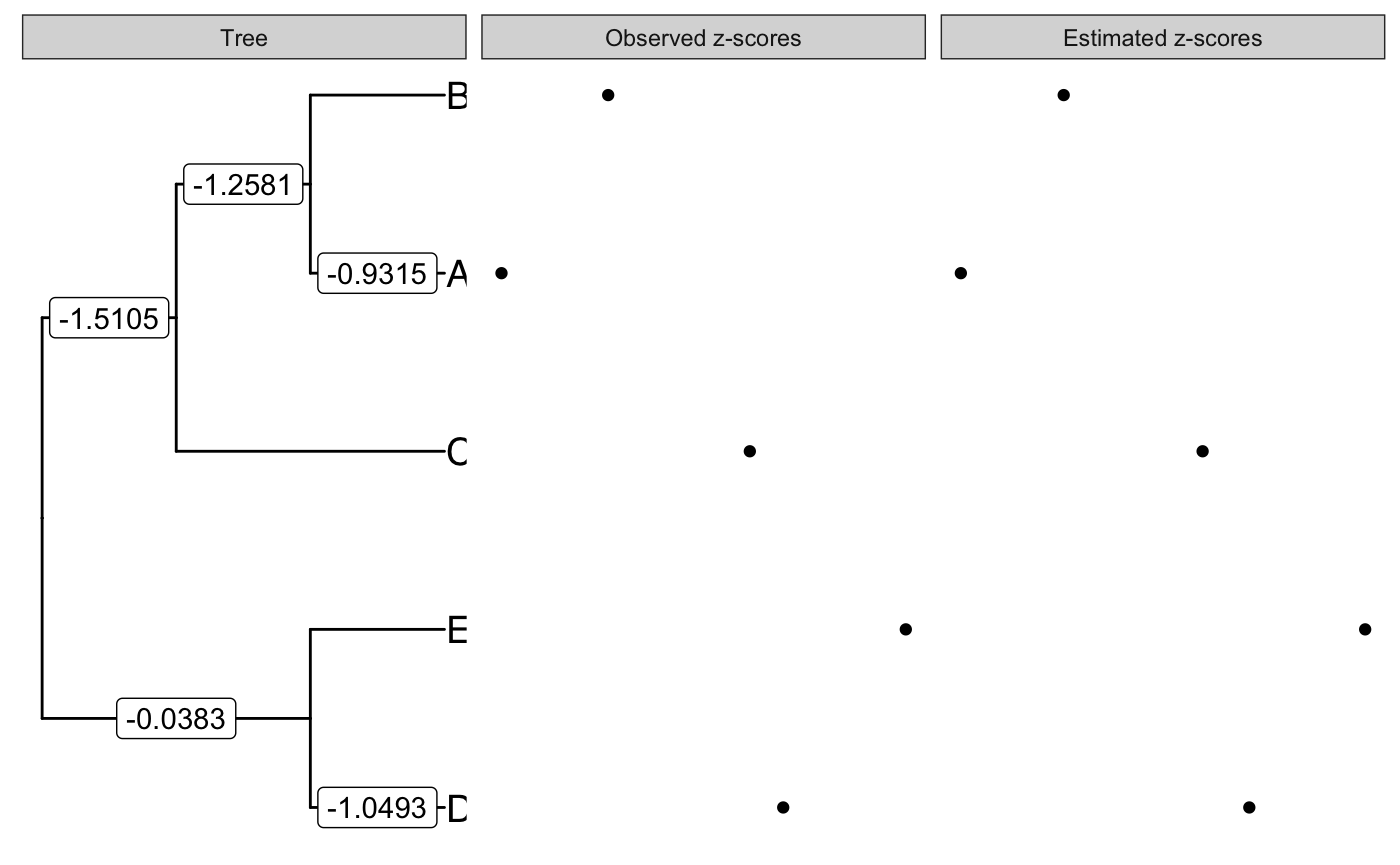
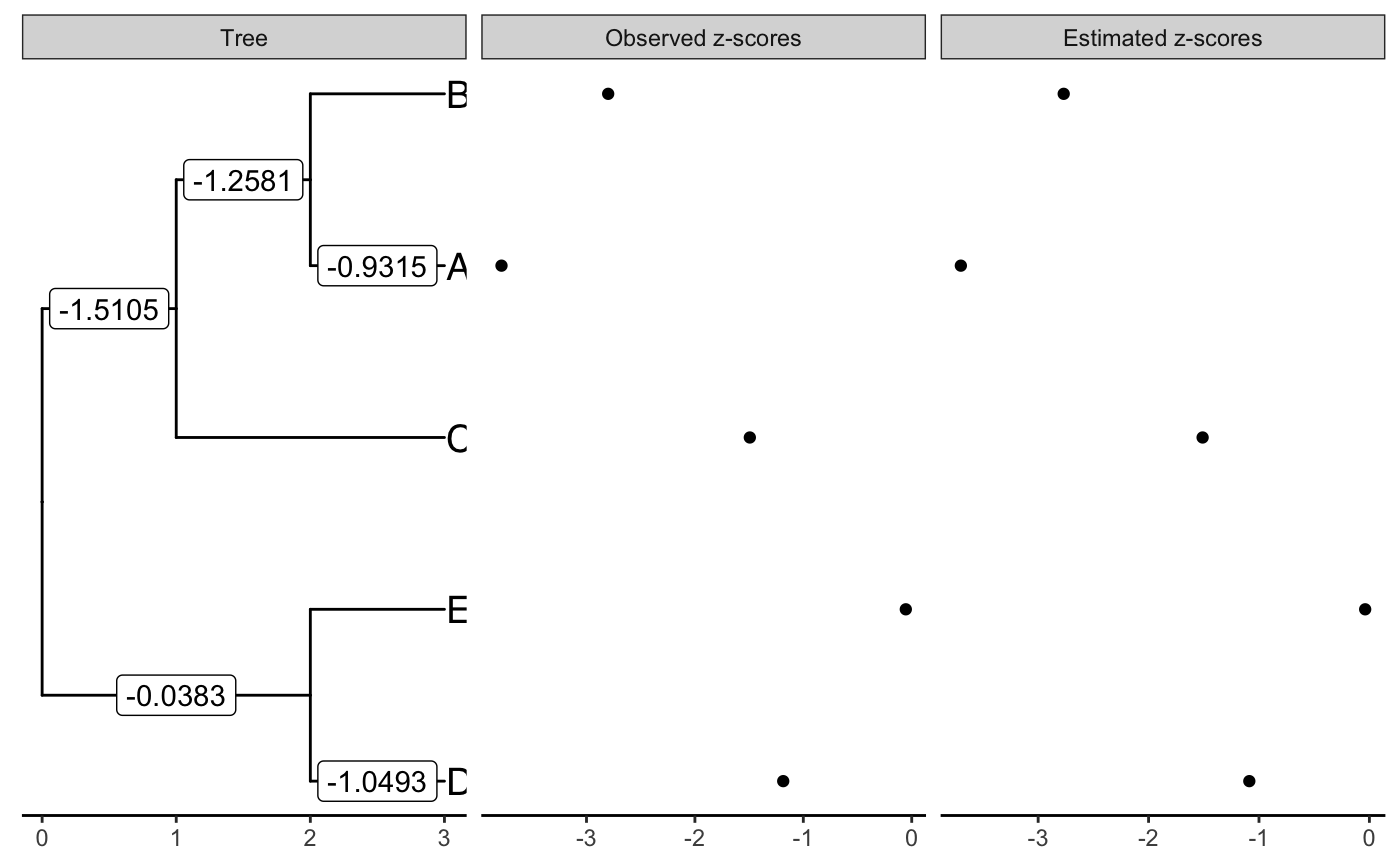
plot option for simulations

diff --git a/inst/docs/reference/simu_zscores.html b/inst/docs/reference/simu_zscores.html
@@ -126,7 +126,8 @@
     <p>Simulates z-scores</p>
     </div>
 
-    <pre class="usage"><span class='fu'>simu_zscores</span>(<span class='no'>tree</span>, <span class='no'>alpha</span>, <span class='kw'>shifts</span> <span class='kw'>=</span> <span class='kw'>NULL</span>, <span class='kw'>Nshifts</span> <span class='kw'>=</span> <span class='kw'>NULL</span>)</pre>
+    <pre class="usage"><span class='fu'>simu_zscores</span>(<span class='no'>tree</span>, <span class='no'>alpha</span>, <span class='kw'>shifts</span> <span class='kw'>=</span> <span class='kw'>NULL</span>, <span class='kw'>Nshifts</span> <span class='kw'>=</span> <span class='kw'>NULL</span>,
+  <span class='kw'>graph</span> <span class='kw'>=</span> <span class='fl'>FALSE</span>, <span class='no'>...</span>)</pre>
 
     <h2 class="hasAnchor" id="arguments"><a class="anchor" href="#arguments"></a>Arguments</h2>
     <table class="ref-arguments">
@@ -147,6 +148,14 @@
       <th>Nshifts</th>
       <td><p>number of shifts. Must be specified if <code>shifts</code> is not.</p></td>
     </tr>
+    <tr>
+      <th>graph</th>
+      <td><p>show the tree, shifts and z-scores be plotted?</p></td>
+    </tr>
+    <tr>
+      <th>...</th>
+      <td><p>additional parameters to pass to <code><a href='plot_shifts.html'>plot_shifts()</a></code>.</p></td>
+    </tr>
     </table>
 
     <h2 class="hasAnchor" id="value"><a class="anchor" href="#value"></a>Value</h2>
@@ -157,17 +166,20 @@
     <p>Shifts are sampled from "statistically significant values of z-scores"</p>
 
     <h2 class="hasAnchor" id="examples"><a class="anchor" href="#examples"></a>Examples</h2>
-    <pre class="examples"><div class='input'><span class='no'>tree</span> <span class='kw'>&lt;-</span> <span class='kw pkg'>ape</span><span class='kw ns'>::</span><span class='fu'><a href='https://rdrr.io/pkg/ape/man/rtree.html'>rcoal</a></span>(<span class='fl'>7</span>)
-<span class='no'>shift</span> <span class='kw'>=</span> <span class='fu'><a href='https://rdrr.io/r/base/c.html'>c</a></span>(<span class='fl'>0</span>, <span class='fl'>0</span>, -<span class='fl'>3</span>, <span class='fl'>0</span>, <span class='fl'>0</span>, <span class='fl'>0</span>, <span class='fl'>0</span>, <span class='fl'>0</span>, <span class='fl'>0</span>, -<span class='fl'>2</span>, <span class='fl'>0</span>, <span class='fl'>0</span>)
-<span class='fu'>simu_zscores</span>(<span class='no'>tree</span>, <span class='kw'>alpha</span> <span class='kw'>=</span> <span class='fl'>0.2</span>, <span class='kw'>shift</span> <span class='kw'>=</span> <span class='fu'><a href='https://rdrr.io/r/base/c.html'>c</a></span>(<span class='fl'>0</span>, <span class='fl'>0</span>, -<span class='fl'>3</span>, <span class='fl'>0</span>, <span class='fl'>0</span>, <span class='fl'>0</span>, <span class='fl'>0</span>, <span class='fl'>0</span>, <span class='fl'>0</span>, -<span class='fl'>2</span>, <span class='fl'>0</span>, <span class='fl'>0</span>))</div><div class='output co'>#&gt;          [,1]
-#&gt; t6  -2.823511
-#&gt; t1   0.218014
-#&gt; t2   3.539511
-#&gt; t3 -15.095993
-#&gt; t5  -0.133997
-#&gt; t7  -5.335610
-#&gt; t4   1.406627</div><div class='input'>
-</div></pre>
+    <pre class="examples"><div class='input'><span class='fu'><a href='https://rdrr.io/r/base/Random.html'>set.seed</a></span>(<span class='fl'>42</span>)
+<span class='no'>tree</span> <span class='kw'>&lt;-</span> <span class='kw pkg'>ape</span><span class='kw ns'>::</span><span class='fu'><a href='https://rdrr.io/pkg/ape/man/rtree.html'>rcoal</a></span>(<span class='fl'>5</span>)
+<span class='no'>shift</span> <span class='kw'>&lt;-</span> <span class='fu'><a href='https://rdrr.io/r/base/c.html'>c</a></span>(<span class='fl'>0</span>, <span class='fl'>0</span>, -<span class='fl'>3</span>, <span class='fl'>0</span>, <span class='fl'>0</span>, <span class='fl'>0</span>, <span class='fl'>0</span>, <span class='fl'>0</span>)
+<span class='fu'>simu_zscores</span>(<span class='no'>tree</span>, <span class='kw'>alpha</span> <span class='kw'>=</span> <span class='fl'>0.2</span>, <span class='kw'>shift</span> <span class='kw'>=</span> <span class='no'>shift</span>, <span class='kw'>graph</span> <span class='kw'>=</span> <span class='fl'>TRUE</span>)</div><div class='output co'>#&gt; <span class='warning'>Warning: Removed 8 rows containing missing values (geom_label).</span></div><div class='img'><img src='simu_zscores-1.png' alt='' width='700' height='433' /></div><div class='output co'>#&gt;           [,1]
+#&gt; t4  2.28664539
+#&gt; t2 -4.38886070
+#&gt; t5 -2.53530326
+#&gt; t1  0.02227707
+#&gt; t3  1.97763678</div><div class='input'><span class='fu'>simu_zscores</span>(<span class='no'>tree</span>, <span class='kw'>alpha</span> <span class='kw'>=</span> <span class='fl'>0.2</span>, <span class='kw'>Nshifts</span> <span class='kw'>=</span> <span class='fl'>2</span>, <span class='kw'>graph</span> <span class='kw'>=</span> <span class='fl'>TRUE</span>)</div><div class='output co'>#&gt; <span class='warning'>Warning: Removed 7 rows containing missing values (geom_label).</span></div><div class='img'><img src='simu_zscores-2.png' alt='' width='700' height='433' /></div><div class='output co'>#&gt;           [,1]
+#&gt; t4 -2.44046693
+#&gt; t2  5.20789194
+#&gt; t5  2.78948167
+#&gt; t1 -0.07885586
+#&gt; t3  5.55811981</div></pre>
   </div>
   <div class="col-md-3 hidden-xs hidden-sm" id="sidebar">
     <h2>Contents</h2>

diff --git a/inst/docs/reference/plot_shifts.html b/inst/docs/reference/plot_shifts.html
@@ -163,7 +163,8 @@
     <p>a <code>ggplot</code> object, as created by <code>ggtree</code></p>
     <h2 class="hasAnchor" id="details"><a class="anchor" href="#details"></a>Details</h2>
 
-    <p>If scores is unnamed, assumes scores are in the same order as <code>tree$tip.label</code></p>
+    <p>If scores is unnamed, assumes scores are in the same order as
+<code>tree$tip.label</code></p>
 
     <h2 class="hasAnchor" id="examples"><a class="anchor" href="#examples"></a>Examples</h2>
     <pre class="examples"><div class='input'><span class='no'>tree</span> <span class='kw'>&lt;-</span> <span class='kw pkg'>ape</span><span class='kw ns'>::</span><span class='fu'><a href='https://rdrr.io/pkg/ape/man/read.tree.html'>read.tree</a></span>(<span class='kw'>text</span> <span class='kw'>=</span> <span class='st'>"(((A,B),C),(D,E));"</span>)

diff --git a/inst/docs/reference/tree_height.html b/inst/docs/reference/tree_height.html
@@ -143,7 +143,7 @@
 
     <h2 class="hasAnchor" id="examples"><a class="anchor" href="#examples"></a>Examples</h2>
     <pre class="examples"><div class='input'><span class='no'>tree</span> <span class='kw'>&lt;-</span> <span class='kw pkg'>ape</span><span class='kw ns'>::</span><span class='fu'><a href='https://rdrr.io/pkg/ape/man/rtree.html'>rcoal</a></span>(<span class='fl'>6</span>)
-<span class='fu'>tree_height</span>(<span class='no'>tree</span>)</div><div class='output co'>#&gt; [1] 0.9422306</div></pre>
+<span class='fu'>tree_height</span>(<span class='no'>tree</span>)</div><div class='output co'>#&gt; [1] 1.871619</div></pre>
   </div>
   <div class="col-md-3 hidden-xs hidden-sm" id="sidebar">
     <h2>Contents</h2>

diff --git a/inst/docs/reference/index.html b/inst/docs/reference/index.html
@@ -197,6 +197,12 @@
           <p><code><a href="p2z.html">p2z()</a></code> </p>
         </td>
         <td><p>Transform p-values to z-scores</p></td>
+      </tr><tr>
+        
+        <td>
+          <p><code><a href="simu_zscores.html">simu_zscores()</a></code> </p>
+        </td>
+        <td><p>Simulation of z-scores on branches</p></td>
       </tr>
     </tbody><tbody>
       <tr>
